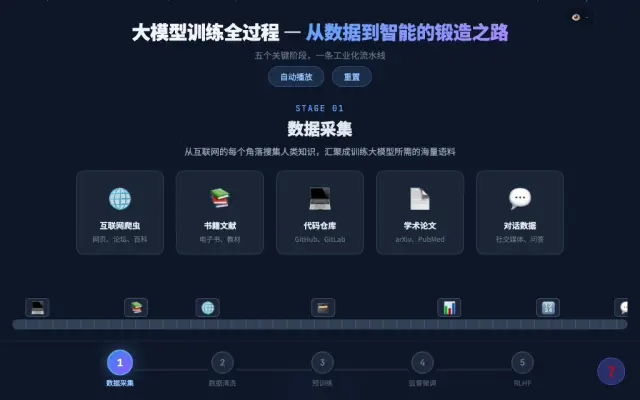
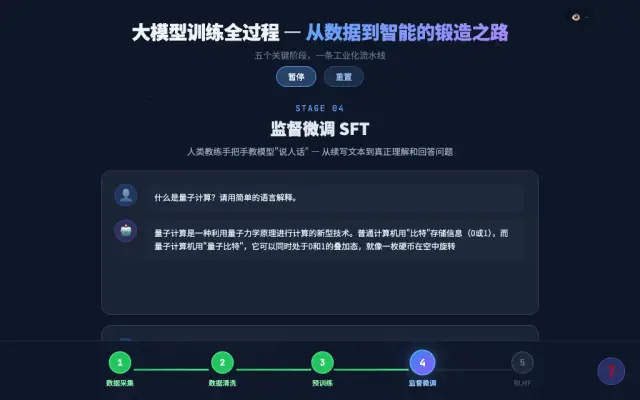
fix: 缩略图脚本按文字认「自动播放」,29 号页截热力图
12 号页(提示词注入)的自动播放按钮 id 是 btn-play,脚本只认 btnAuto,
所以没点播放，缩略图停在只有两个小人的第一步。改成按按钮文字「自动播放」
识别，顺带查出 01、02、07、11、32 也是同样情况(id 分别是 btn-auto、
autoPlayBtn、btnAutoPlay 等)。其中 02、11 的按钮在默认不显示的 Tab 里，
不点是对的，缩略图仍是打开页面时的默认画面。

可见性判断从 offsetParent 换成 getClientRects():offsetParent 对
position: fixed 的元素恒为 null,会把看得见的按钮当成看不见。

29 号页(注意力机制)没有自动播放，默认 Tab 首屏只有四个词，
按边缘密度会挑文字多的「多头注意力」卡片页。新增 SETUP 表，
让个别页面先切到指定状态再采样，29 切到「注意力热力图」Tab。
CLAUDE.md 补一句：规则管不到的页面再往 SETUP 加，写清为什么。

缩略图变化:12 换成隐藏指令被执行那一步;29 换成热力图;
32 从「数据采集」换成「监督微调 SFT」;01、07 内容量相近。

diff --git a/CLAUDE.md b/CLAUDE.md
@@ -82,7 +82,7 @@
    - 章节 id 见同一处的 `CHAPTERS`，每个章节挂在剖面图的一层（`LAYERS`：应用 / 模型 / 架构 / 训练 / 推理 / 硬件）
    - 玩法标签：`3d`（立体场景）· `lab`（有滑块能调参数）· `vs`（方案对比）· `tabs`（多 Tab 切换），空格分隔，可以为空
    - 截缩略图：`node 19-ai-training-ppt/gen-thumbs.mjs <序号>`，输出 `docs/thumbs/<序号>.webp` 并自动同步到 `interactive/thumbs/`
-     （每页截多帧，按边缘密度挑内容最满的一帧；截出来偏空就看脚本开头注释里的三类页面规则）
+     （每页截多帧，按边缘密度挑内容最满的一帧；截出来偏空，先看脚本开头注释里的页面分类规则，规则管不到的再往 `SETUP` 表里加一条，写清为什么）
    - 首页首屏外观改了以后：`node 19-ai-training-ppt/gen-og.mjs` 重新生成分享图 `og.jpg` 和 iOS 主屏图标
 5. 确保术语表(❓)按钮可正常工作（JS 需在 DOM 之后执行或用 DOMContentLoaded）
 
